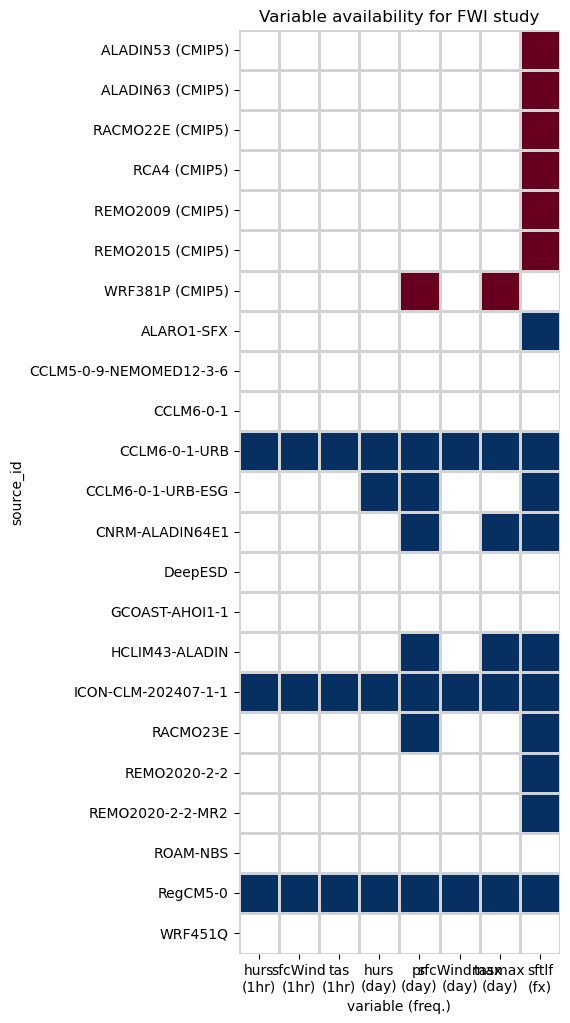
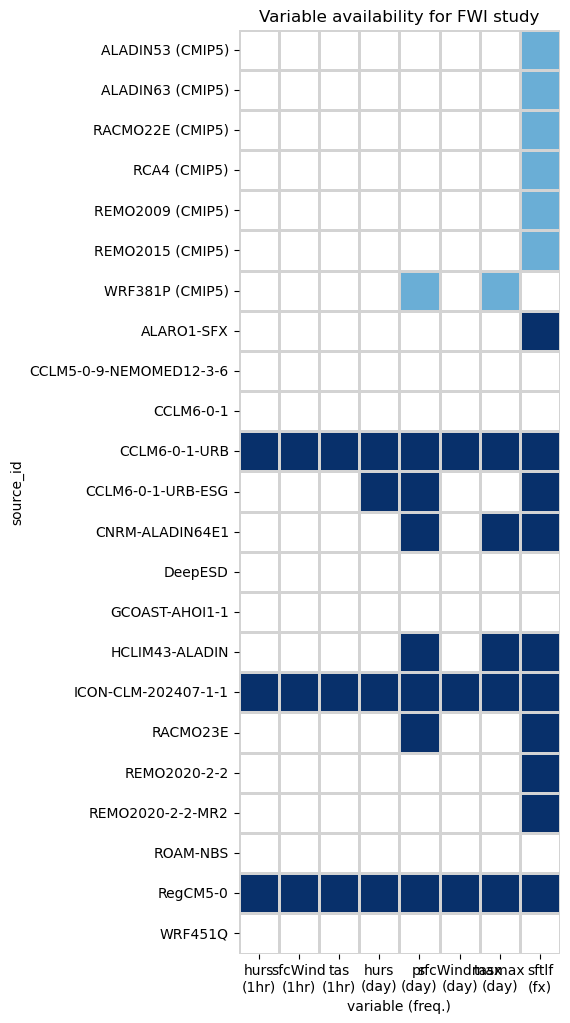
Fix coloring of CMIP5-driven simulations

Changed region(s): [[0.8351, 0.0303, 0.9842, 0.303], [0.686, 0.2424, 0.7754, 0.303]]

diff --git a/code/variable_availability.py b/code/variable_availability.py
@@ -48,7 +48,8 @@ def plot_availability(study, dreq, catalog, plans, outname="availability.png"):
     plt.title(f"Variable availability for {study} study")
     ax = sns.heatmap(
         matrix,
-        cmap="RdBu",
+        cmap="Blues",
+        vmin=0, vmax=1,
         annot=False,
         cbar=False,
         linewidths=1,
